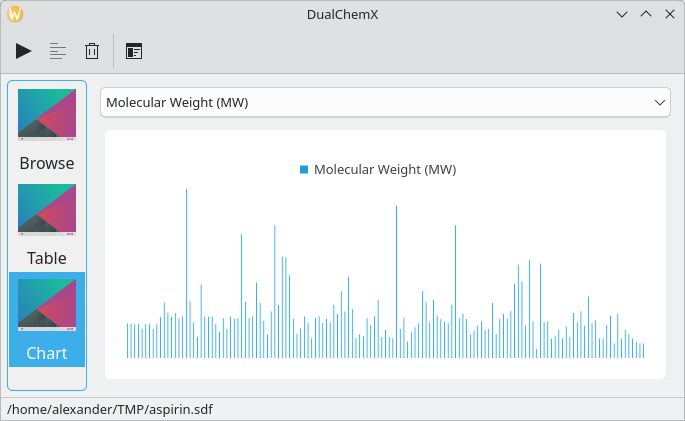
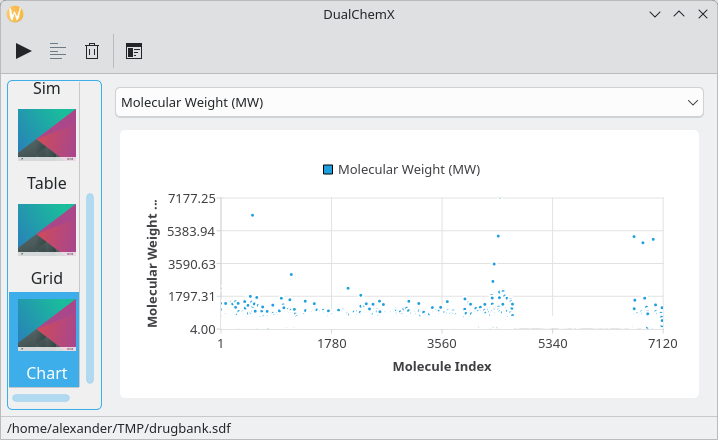
ScreenChart.py

diff --git a/dualchemx/ScreenChart.py b/dualchemx/ScreenChart.py
@@ -26,7 +26,7 @@ from PySide6.QtCore import (
 )
 from PySide6.QtGui import QPainter
 from DualChemX import IScreen
-from PySide6.QtCharts import QChart, QChartView, QBarSet, QBarSeries, QBarCategoryAxis, QValueAxis
+from PySide6.QtCharts import QChart, QChartView, QBarSet, QBarSeries, QBarCategoryAxis, QValueAxis, QScatterSeries
 
 class ScreenChart(QWidget, IScreen):
     def __init__(self, p = None):
@@ -52,9 +52,9 @@ class ScreenChart(QWidget, IScreen):
 
     def onDescriptorChanged(self, idx):
         self.desc = self.dropdown.itemText(idx)
-        self.createHistogram()
+        self.createChart()
 
-    def createHistogram(self):
+    def createChart(self):
         self.chart_view.setChart(QChart())
         chart = QChart()
         chart.setAnimationOptions(QChart.SeriesAnimations)
@@ -62,10 +62,26 @@ class ScreenChart(QWidget, IScreen):
         data = [ext(m) for m in self.db._mols]
         if not data:
             return
-        series = QBarSeries()
-        barSet = QBarSet(self.desc)
-        for v in data:
-            barSet.append(v)
-        series.append(barSet)
+
+        series = QScatterSeries()
+        series.setName(self.desc);
+        series.setMarkerShape(QScatterSeries.MarkerShapeCircle);
+        series.setMarkerSize(5.0);
+
+        for index, weight in enumerate(data):
+            series.append(index + 1, weight)
+
         chart.addSeries(series)
+        axis_x = QValueAxis()
+        axis_x.setTitleText("Molecule Index")
+        axis_x.setLabelFormat("%d")
+        chart.addAxis(axis_x, Qt.AlignmentFlag.AlignBottom)
+        series.attachAxis(axis_x)
+
+        axis_y = QValueAxis()
+        axis_y.setTitleText(self.desc)
+        axis_y.setLabelFormat("%.2f")
+        chart.addAxis(axis_y, Qt.AlignmentFlag.AlignLeft)
+        series.attachAxis(axis_y)
         self.chart_view.setChart(chart)
+

diff --git a/dualchemx/Backend.py b/dualchemx/Backend.py
@@ -58,6 +58,9 @@ class Backend(QObject):
         if not self._smiles: return ""
         return self._smiles
 
+    def getSmiles(self, idx):
+        return Chem.MolToSmiles(self._mols[idx].mol, isomericSmiles=True)
+
     @Property(int, notify=updated)
     def currentIndex(self): return self._index
 

diff --git a/README.md b/README.md
@@ -5,6 +5,7 @@ DualChemX - open-source 2D chemical viewer (Python, Qt, PySide, RDKit).
 Features:  
  - supported formats: SDF, SMILES  
  - molecular descriptors  
+ - visual representation: table, chart, molecular grid  
 
 License: GNU GENERAL PUBLIC LICENSE Version 3 (GPL-3.0-only)  
 Source code: https://github.com/dualword/dualchemx  